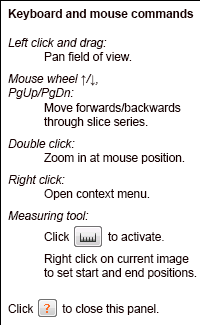
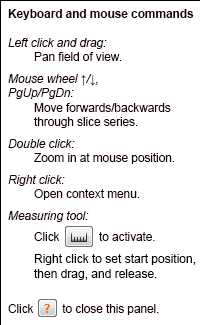
Update help panels in Viewport window

diff --git a/src/viewport.py b/src/viewport.py
@@ -1169,7 +1169,7 @@ class Viewport(QWidget):
         # Show help panel
         if self.help_panel_visible:
             self.vp_qp.drawPixmap(self.cs.vp_width - 200,
-                                  self.cs.vp_height - 490,
+                                  self.cs.vp_height - 550,
                                   self.vp_help_panel_img)
         # Simulation mode indicator
         if self.sem.simulation_mode:
